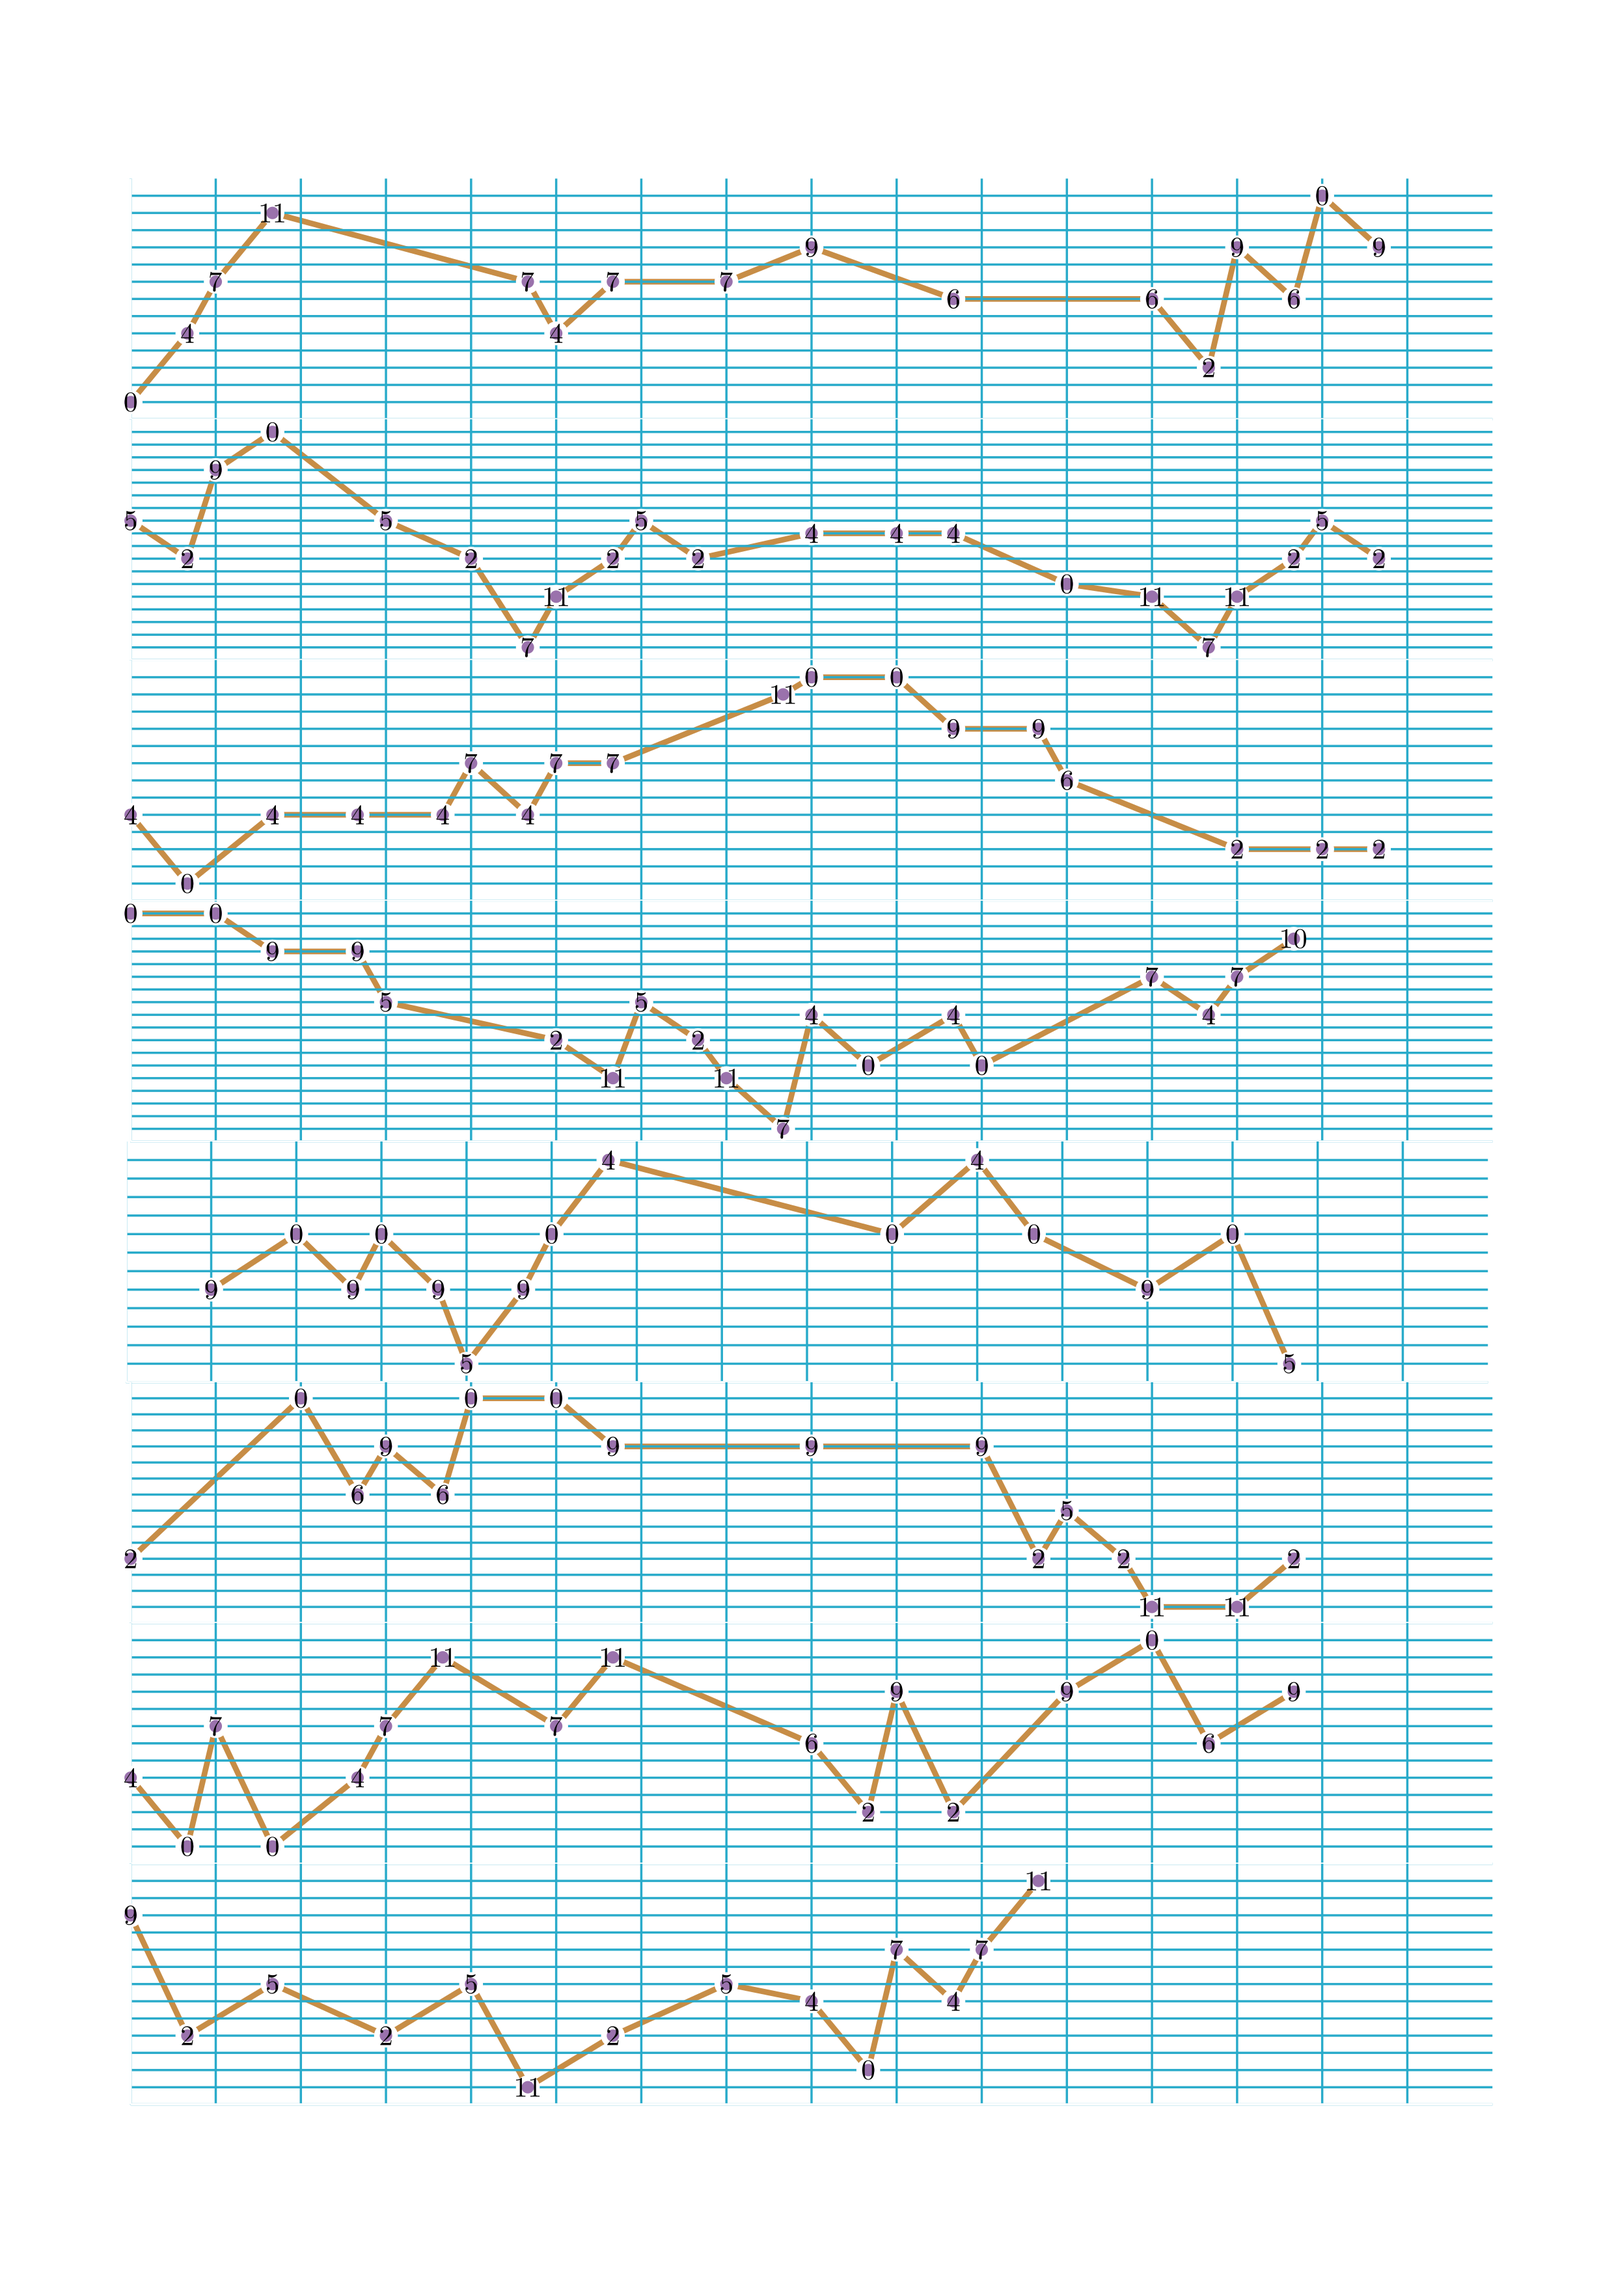
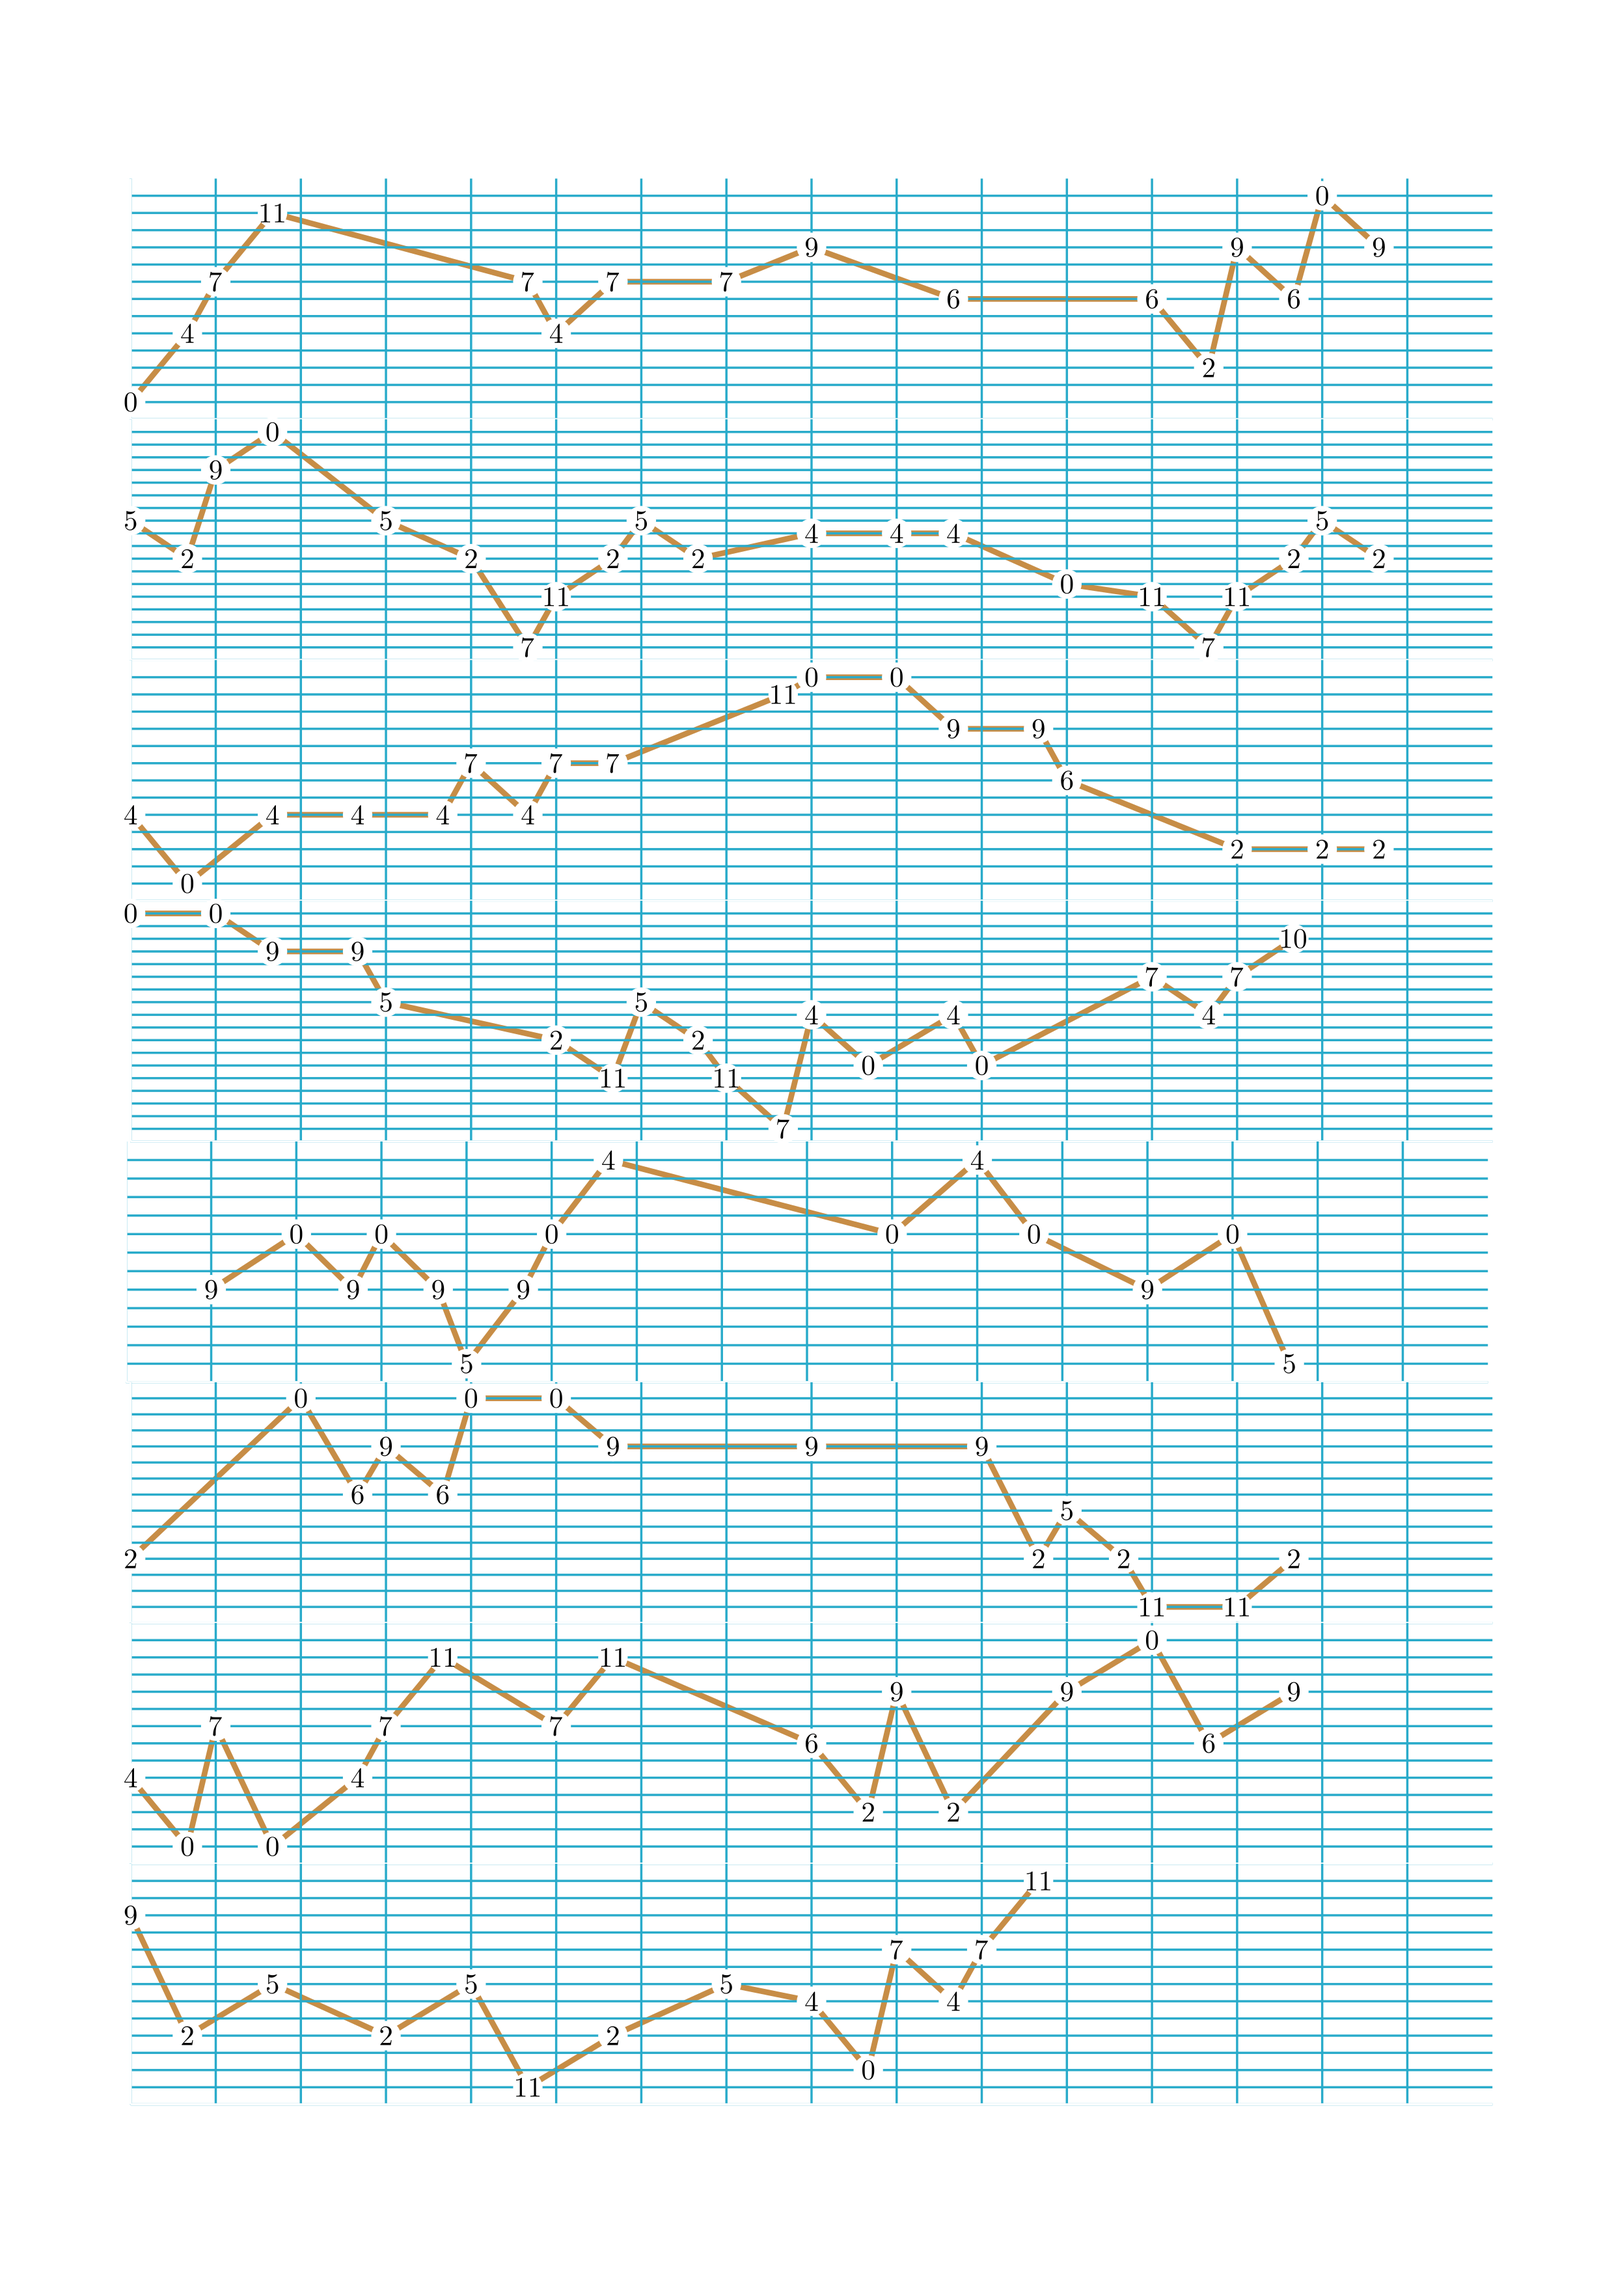
create melody sheet

Changed region(s): [[0.3726, 0.2175, 0.4036, 0.2486]]

diff --git a/line_graph.py b/line_graph.py
@@ -24,7 +24,7 @@ def create_line_graph(x_values, y_values, x_start, x_end, width, height ):
         x_values = x_values,
         y_values = y_values,
         line_color=GOLD_E,
-        vertex_dot_style=dict(stroke_width=5,  fill_color=PURPLE),
+        vertex_dot_style=dict(stroke_width=10,  fill_color=WHITE),
         stroke_width = 5,
     )
     labels = VGroup()
